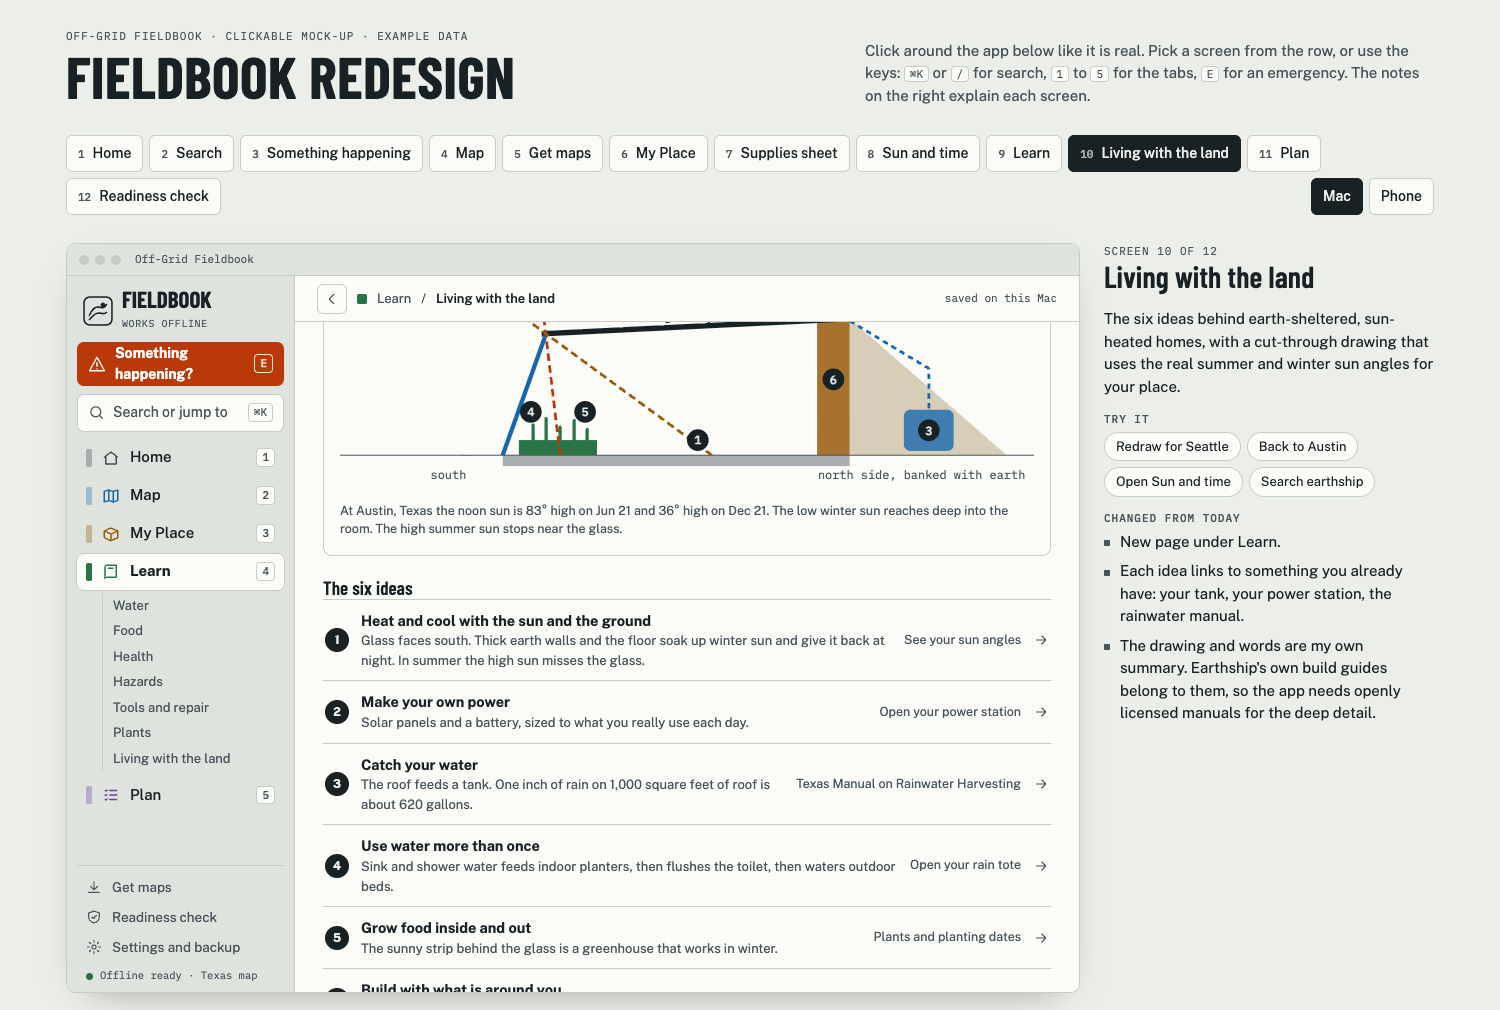
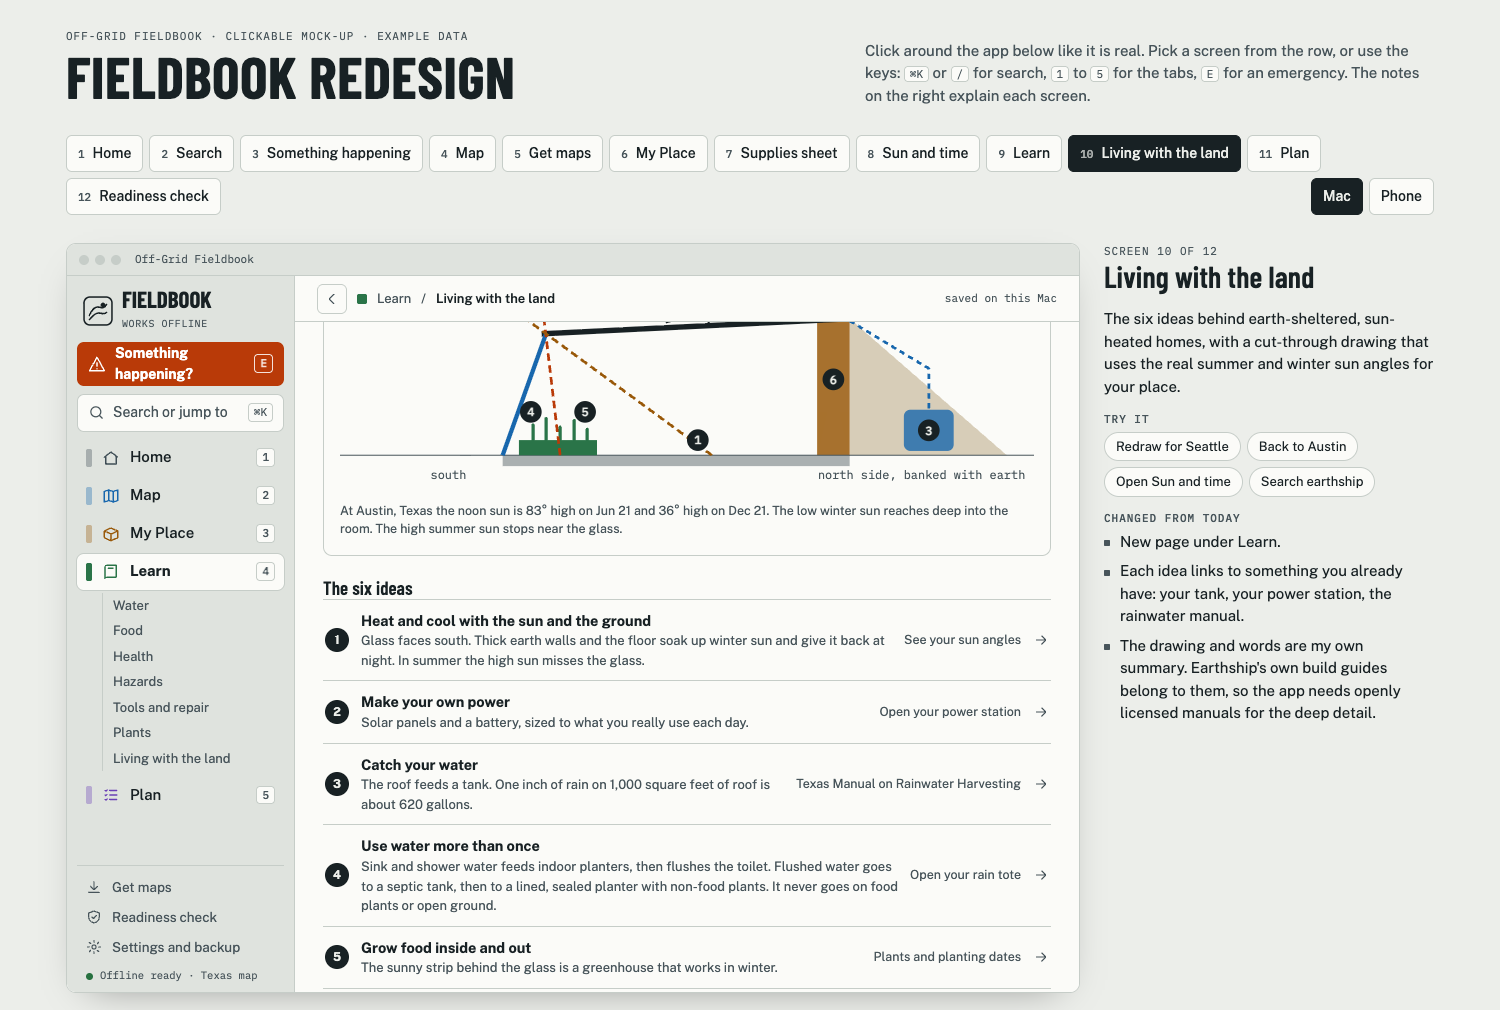
Fix water reuse drawing: add septic and sealed planter stage

Changed region(s): [[0.2147, 0.8287, 0.6747, 0.9822], [0.5827, 0.9208, 0.7053, 0.9515]]

diff --git a/design/redesign-mockup/fieldbook-redesign.src.html b/design/redesign-mockup/fieldbook-redesign.src.html
@@ -970,7 +970,7 @@ const V = {
     const IDEAS = [["Heat and cool with the sun and the ground", "Glass faces south. Thick earth walls and the floor soak up winter sun and give it back at night. In summer the high sun misses the glass.", "sun", "See your sun angles"],
       ["Make your own power", "Solar panels and a battery, sized to what you really use each day.", "place:station", "Open your power station"],
       ["Catch your water", "The roof feeds a tank. One inch of rain on 1,000 square feet of roof is about 620 gallons.", "learn:read:m4", "Texas Manual on Rainwater Harvesting"],
-      ["Use water more than once", "Sink and shower water feeds indoor planters, then flushes the toilet, then waters outdoor beds.", "place:tote", "Open your rain tote"],
+      ["Use water more than once", "Sink and shower water feeds indoor planters, then flushes the toilet. Flushed water goes to a septic tank, then to a lined, sealed planter with non-food plants. It never goes on food plants or open ground.", "place:tote", "Open your rain tote"],
       ["Grow food inside and out", "The sunny strip behind the glass is a greenhouse that works in winter.", "learn:plants", "Plants and planting dates"],
       ["Build with what is around you", "Packed earth, reclaimed tires, cans and bottles. Heavy, cheap and close to hand.", "learn:tools", "Tools and repair shelf"]];
     return `<div class="head"><div><h1>Living with the land</h1><p class="sub">Six ideas from earth-sheltered, sun-heated homes, the approach Earthships made famous. The drawing uses the real sun angles for the place you pick.</p></div>${locSel()}</div>
@@ -987,7 +987,7 @@ const V = {
         <text x="100" y="252" text-anchor="middle">south</text><text x="632" y="252" text-anchor="end">north side, banked with earth</text></svg></div>
       <p class="fine">At ${esc(pn.replace(" (example)", ""))} the noon sun is ${Math.round(hi)}° high on Jun 21 and ${Math.round(lo)}° high on Dec 21. The low winter sun reaches deep into the room. The high summer sun stops near the glass.</p></section>
     <section><h3>The six ideas</h3><div class="rows">${IDEAS.map((x, i) => `<button class="rowitem idea" data-route="${x[2]}"><span class="badge">${i + 1}</span><span class="grow"><b>${x[0]}</b><small>${x[1]}</small></span><span class="more">${x[3]}</span>${ic("arrow", 16)}</button>`).join("")}</div></section>
-    <section class="panel"><p class="eyebrow">Idea 4</p><h3>One gallon, used four times</h3><div class="flow"><span>Roof and tank</span><i>${ic("arrow", 16)}</i><span>Sink and shower</span><i>${ic("arrow", 16)}</i><span>Indoor planters</span><i>${ic("arrow", 16)}</i><span>Toilet flush</span><i>${ic("arrow", 16)}</i><span>Outdoor beds</span></div></section>
+    <section class="panel"><p class="eyebrow">Idea 4</p><h3>One gallon, used three times, then treated</h3><div class="flow"><span>Roof and tank</span><i>${ic("arrow", 16)}</i><span>Sink and shower</span><i>${ic("arrow", 16)}</i><span>Indoor planters</span><i>${ic("arrow", 16)}</i><span>Toilet flush</span><i>${ic("arrow", 16)}</i><span>Septic tank</span><i>${ic("arrow", 16)}</i><span>Lined, sealed planter: non-food plants only</span></div><p class="fine">Flushed water never goes on food plants or open ground. Reusing greywater and toilet water is regulated. Local rules come first.</p></section>
     <p class="fine">This page is a plain summary with its own drawing. The real app needs openly licensed building manuals added to the library before these rows have full guides behind them.</p>`;
   },
   supplies() {

diff --git a/design/redesign-mockup/pack/Fieldbook-redesign.html b/design/redesign-mockup/pack/Fieldbook-redesign.html
@@ -970,7 +970,7 @@ const V = {
     const IDEAS = [["Heat and cool with the sun and the ground", "Glass faces south. Thick earth walls and the floor soak up winter sun and give it back at night. In summer the high sun misses the glass.", "sun", "See your sun angles"],
       ["Make your own power", "Solar panels and a battery, sized to what you really use each day.", "place:station", "Open your power station"],
       ["Catch your water", "The roof feeds a tank. One inch of rain on 1,000 square feet of roof is about 620 gallons.", "learn:read:m4", "Texas Manual on Rainwater Harvesting"],
-      ["Use water more than once", "Sink and shower water feeds indoor planters, then flushes the toilet, then waters outdoor beds.", "place:tote", "Open your rain tote"],
+      ["Use water more than once", "Sink and shower water feeds indoor planters, then flushes the toilet. Flushed water goes to a septic tank, then to a lined, sealed planter with non-food plants. It never goes on food plants or open ground.", "place:tote", "Open your rain tote"],
       ["Grow food inside and out", "The sunny strip behind the glass is a greenhouse that works in winter.", "learn:plants", "Plants and planting dates"],
       ["Build with what is around you", "Packed earth, reclaimed tires, cans and bottles. Heavy, cheap and close to hand.", "learn:tools", "Tools and repair shelf"]];
     return `<div class="head"><div><h1>Living with the land</h1><p class="sub">Six ideas from earth-sheltered, sun-heated homes, the approach Earthships made famous. The drawing uses the real sun angles for the place you pick.</p></div>${locSel()}</div>
@@ -987,7 +987,7 @@ const V = {
         <text x="100" y="252" text-anchor="middle">south</text><text x="632" y="252" text-anchor="end">north side, banked with earth</text></svg></div>
       <p class="fine">At ${esc(pn.replace(" (example)", ""))} the noon sun is ${Math.round(hi)}° high on Jun 21 and ${Math.round(lo)}° high on Dec 21. The low winter sun reaches deep into the room. The high summer sun stops near the glass.</p></section>
     <section><h3>The six ideas</h3><div class="rows">${IDEAS.map((x, i) => `<button class="rowitem idea" data-route="${x[2]}"><span class="badge">${i + 1}</span><span class="grow"><b>${x[0]}</b><small>${x[1]}</small></span><span class="more">${x[3]}</span>${ic("arrow", 16)}</button>`).join("")}</div></section>
-    <section class="panel"><p class="eyebrow">Idea 4</p><h3>One gallon, used four times</h3><div class="flow"><span>Roof and tank</span><i>${ic("arrow", 16)}</i><span>Sink and shower</span><i>${ic("arrow", 16)}</i><span>Indoor planters</span><i>${ic("arrow", 16)}</i><span>Toilet flush</span><i>${ic("arrow", 16)}</i><span>Outdoor beds</span></div></section>
+    <section class="panel"><p class="eyebrow">Idea 4</p><h3>One gallon, used three times, then treated</h3><div class="flow"><span>Roof and tank</span><i>${ic("arrow", 16)}</i><span>Sink and shower</span><i>${ic("arrow", 16)}</i><span>Indoor planters</span><i>${ic("arrow", 16)}</i><span>Toilet flush</span><i>${ic("arrow", 16)}</i><span>Septic tank</span><i>${ic("arrow", 16)}</i><span>Lined, sealed planter: non-food plants only</span></div><p class="fine">Flushed water never goes on food plants or open ground. Reusing greywater and toilet water is regulated. Local rules come first.</p></section>
     <p class="fine">This page is a plain summary with its own drawing. The real app needs openly licensed building manuals added to the library before these rows have full guides behind them.</p>`;
   },
   supplies() {

diff --git a/design/redesign-mockup/build/patch5.py b/design/redesign-mockup/build/patch5.py
@@ -266,6 +266,11 @@ rep('''document.fonts.ready.then(() => drawMap());''', '''document.fonts.ready.t
 
 rep('["Run the readiness check", "offline test ready works", "check", "shield"]', '["Run the readiness check", "offline test ready works backup back up", "check", "shield"]')
 rep('PASS.forEach(p => addDoc("manual", p.h || p.doc, p.x, { route:', 'PASS.forEach(p => addDoc("manual", p.h || p.doc, p.x, { kw: p.kw || "", route:')
+
+# water reuse safety fix (review claim 20)
+rep('"Sink and shower water feeds indoor planters, then flushes the toilet, then waters outdoor beds."', '"Sink and shower water feeds indoor planters, then flushes the toilet. Flushed water goes to a septic tank, then to a lined, sealed planter with non-food plants. It never goes on food plants or open ground."')
+rep('<h3>One gallon, used four times</h3>', '<h3>One gallon, used three times, then treated</h3>')
+rep('<span>Toilet flush</span><i>${ic("arrow", 16)}</i><span>Outdoor beds</span></div></section>', '<span>Toilet flush</span><i>${ic("arrow", 16)}</i><span>Septic tank</span><i>${ic("arrow", 16)}</i><span>Lined, sealed planter: non-food plants only</span></div><p class="fine">Flushed water never goes on food plants or open ground. Reusing greywater and toilet water is regulated. Local rules come first.</p></section>')
 assert '—' not in src
 open(path, 'w').write(src)
 print('patched', len(src))

diff --git a/design/redesign-mockup/review-2/fact-check.md b/design/redesign-mockup/review-2/fact-check.md
@@ -2,7 +2,7 @@
 
 An outside review of the mock-up came back on 27 November 2026 (`Fieldbook-redesign-review.pdf`, `Layout-and-build-notes.md`). We reproduced 25 of its claims against the same mock-up file in headless Chrome.
 
-Result: 23 true, 2 partly true, 0 false. None of this is fixed in the mock-up yet.
+Result: 23 true, 2 partly true, 0 false. Claim 20 (the water drawing) is now fixed. The rest is not fixed in the mock-up; it is being handled in the app build.
 
 Line numbers refer to `../fieldbook-redesign.src.html`.
 
